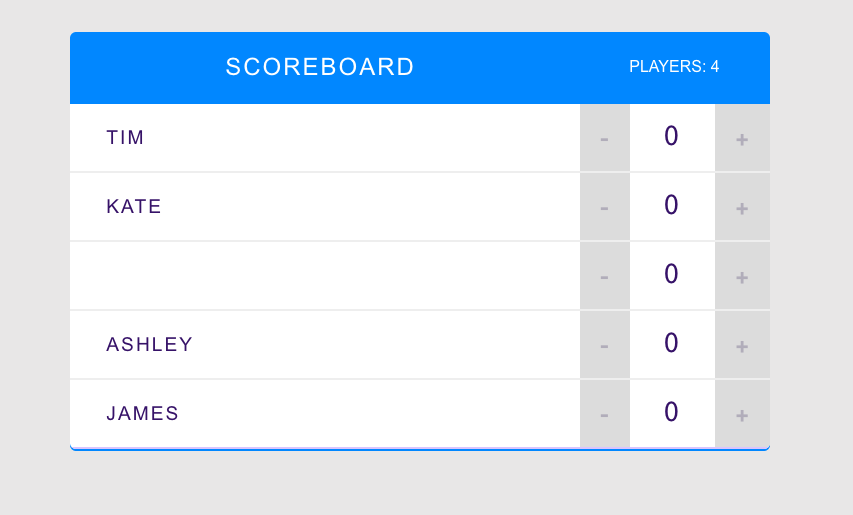
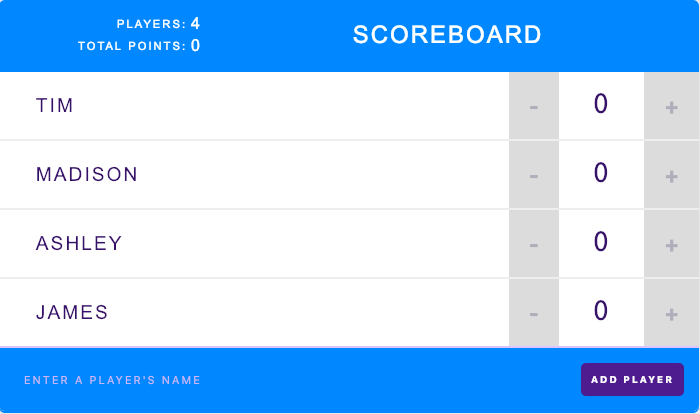
made changes

diff --git a/index.html b/index.html
@@ -392,7 +392,7 @@
         <h1 id="virtual">Virtual Scoreboard at Your Convenience</h1>
 
         <div class="scoreboard backgroundSolid">
-           <a href="https://codepen.io/tlacoding111/full/JwLwoJ" target=_blank><img src="images/scoreboard2.png" class="board"></a>
+           <a href="https://codepen.io/tlacoding111/details/JwLwoJ" target=_blank><img src="images/scoreboard.png" class="board"></a>
         </div>
 
         <h1 id="associate">Business</h1>

diff --git a/main.css b/main.css
@@ -20,6 +20,10 @@ header {
     border-bottom: 5px dashed white;
 }
 
+header h3 {
+    color: white;
+}
+
 .description {
     color: red;
 }
